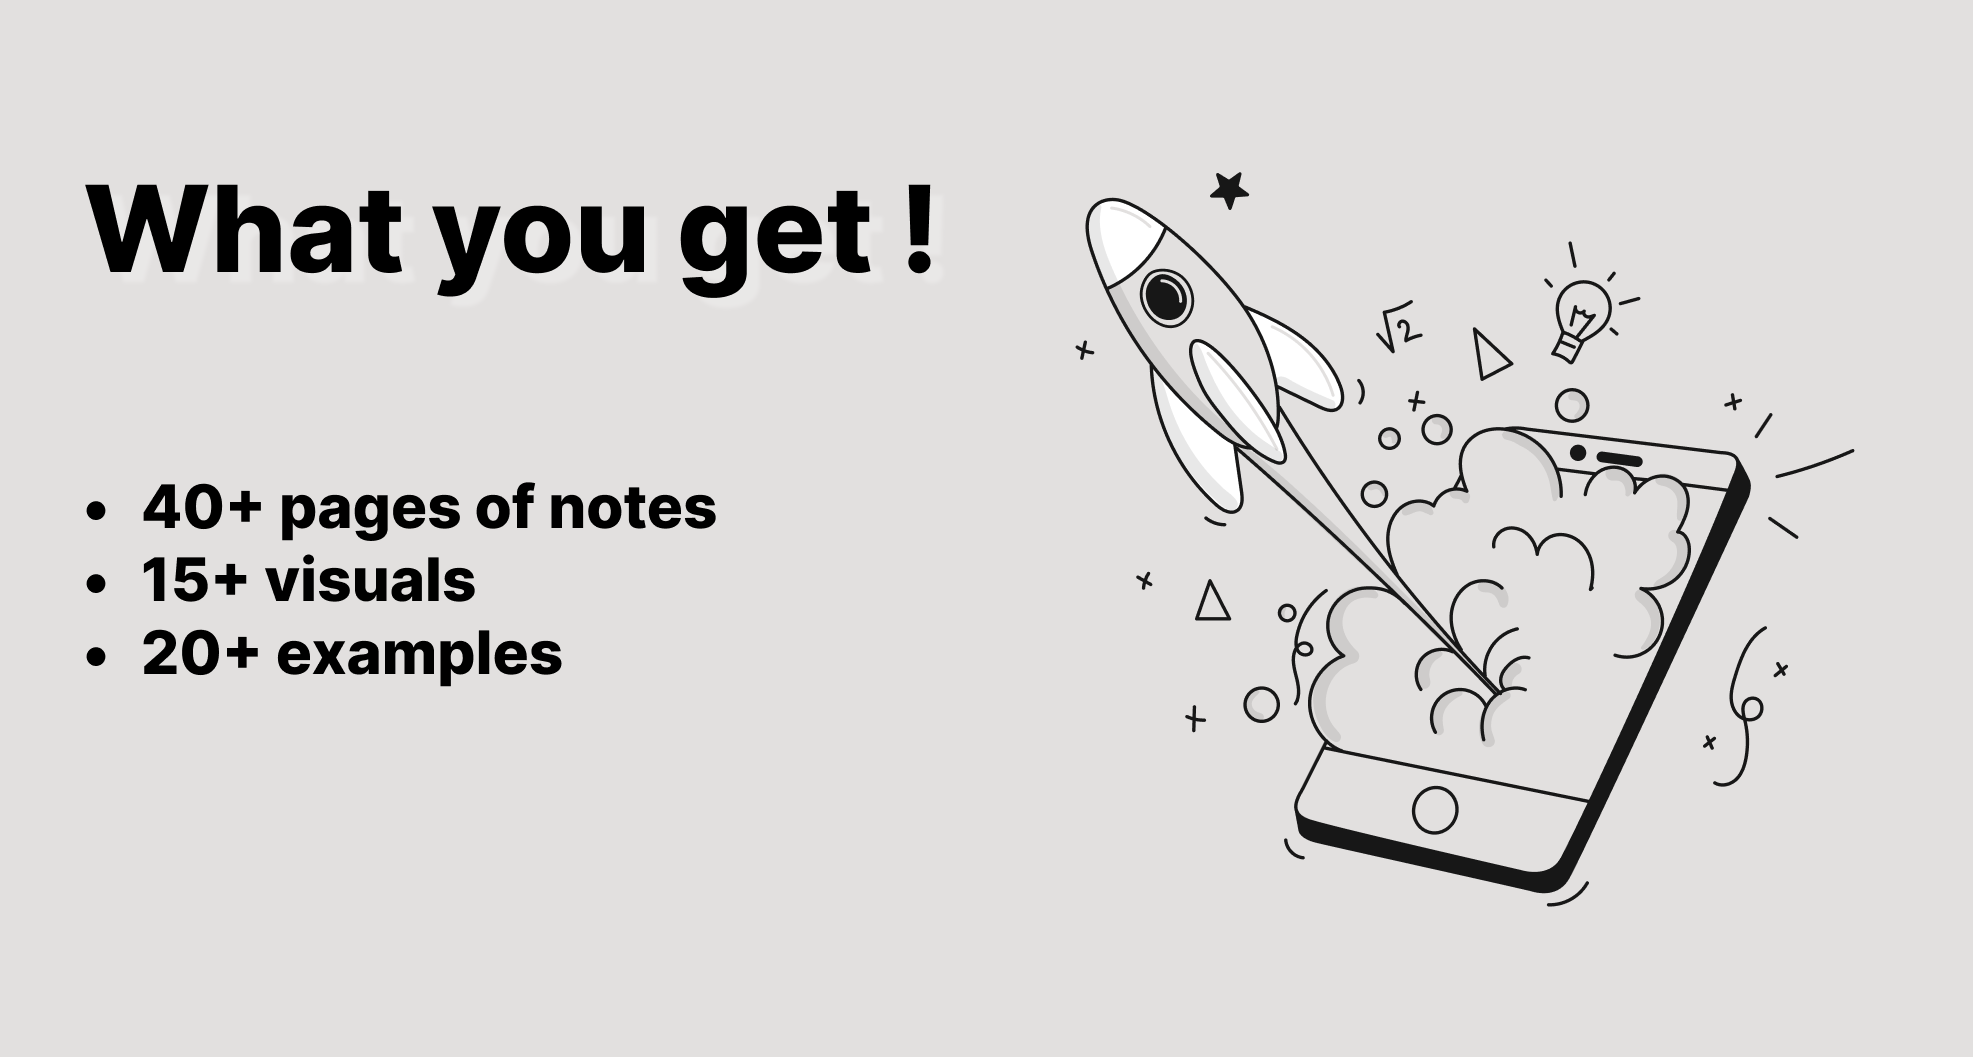
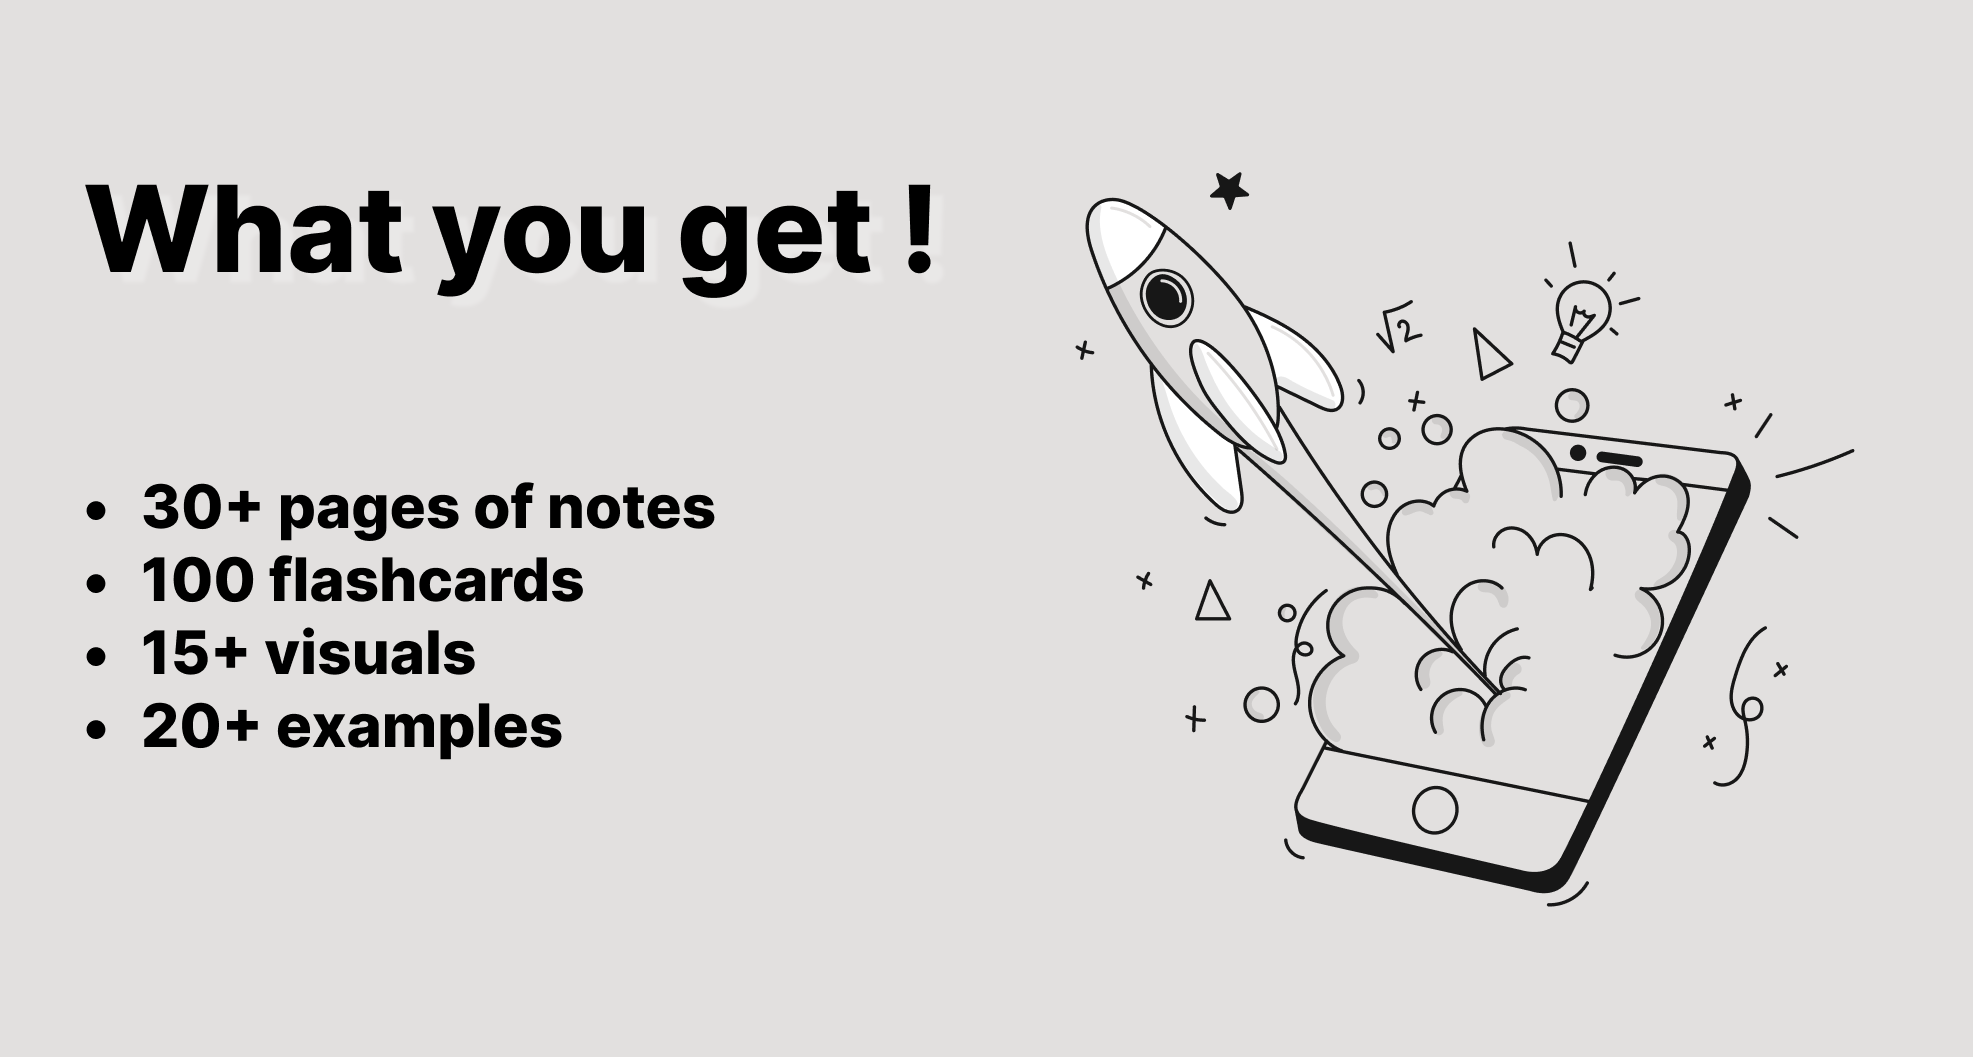
Added correct second nextjs image showing flashcards

Changed region(s): [[0.0309, 0.5307, 0.3092, 0.7181], [0.0618, 0.4683, 0.371, 0.4995]]

diff --git a/pages/nextjs/index.tsx b/pages/nextjs/index.tsx
@@ -115,7 +115,7 @@ const techs = [
        text:
       <>
       <ul>
-                 <li >150+ flashcards</li>
+                 <li >100 flashcards</li>
                 <li>Advanced algorithms to learn efficient.</li>
        </ul>
       </>,
@@ -165,7 +165,7 @@ const techs = [
         <div className=''>
             <h1  data-aos="fade-up" className="text-6xl xl:text-8xl  ml-8 xl:ml-32   mt-48 font-extrabold">What you get ! </h1>
             <ul className=" list-disc  ml-16 xl:ml-32 mt-8 text-2xl xl:text-4xl mr-8 xl:mr-32">
-                      <li className="mt-6 mb-6">30+ Notion pages and 150+ Anki Flashcards.</li>
+                      <li className="mt-6 mb-6">30+ Notion pages and 100 Anki Flashcards.</li>
                       <li className="mt-6 mb-6">Every concept you need to know to master NextJS.</li >
                       <li className="mt-6 mb-6"> 15+ graphics and 20+ practical examples that further help you.</li >
 
